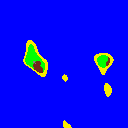
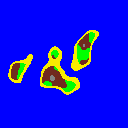
Rewrite Net

diff --git a/GameServer.h b/GameServer.h
@@ -55,7 +55,76 @@ namespace Game {
 		}
 
 		static void ConnectHandler(Uint32 ID) {
+			//===============================================================//		
+			{
+				EngineCore::TileMap* tilemap = NULL;
 
+				tilemap = &game().background->tilemap;
+				for (Uint32 i = 0; i < 128; ++i) {
+					EngineCore::Packet line1 = EngineCore::Packet(64);
+					line1.code = game().NET_MAP_GENERATE_BACKGROUND;
+					for (Uint32 j = 0; j < 64; ++j)
+						line1.write<Uint8>((Uint8)tilemap->map[i][j]);
+
+					EngineCore::Packet line2 = EngineCore::Packet(64);
+					line2.code = game().NET_MAP_GENERATE_BACKGROUND;
+					for (Uint32 j = 64; j < 128; ++j)
+						line2.write<Uint8>((Uint8)tilemap->map[i][j]);
+
+					if (EngineCore::Server::warrantySend(ID, line1)) {
+						if (!EngineCore::Server::warrantySend(ID, line2)) {
+							Log::error() << "Couldn't send data of map";
+							return;
+						}
+					} else {
+						Log::error() << "Couldn't send data of map";
+						return;
+					}
+
+					EngineCore::Packet okPacket = EngineCore::Packet(0);
+					for (Uint32 k = 1; k < EngineCore::Server::getClients().size(); ++k)
+						if (k != ID) {
+							EngineCore::Server::Send(k, okPacket);
+
+							Uint32 ready = SDLNet_SocketReady(EngineCore::Server::self.server_socket);
+							if (ready > 0)
+								EngineCore::Net::recieved(EngineCore::Server::self.server_socket, 128);
+						}
+				}
+
+				tilemap = &game().foreground->tilemap;
+				for (Uint32 i = 0; i < 128; ++i) {
+					EngineCore::Packet line1 = EngineCore::Packet(64);
+					line1.code = game().NET_MAP_GENERATE_FOREGROUND;
+					for (Uint32 j = 0; j < 64; ++j)
+						line1.write<Uint8>((Uint8)tilemap->map[i][j]);
+
+					EngineCore::Packet line2 = EngineCore::Packet(64);
+					line2.code = game().NET_MAP_GENERATE_FOREGROUND;
+					for (Uint32 j = 64; j < 128; ++j)
+						line2.write<Uint8>((Uint8)tilemap->map[i][j]);
+
+					if (EngineCore::Server::warrantySend(ID, line1)) {
+						if (!EngineCore::Server::warrantySend(ID, line2)) {
+							Log::error() << "Couldn't send data of map";
+							return;
+						}
+					} else {
+						Log::error() << "Couldn't send data of map";
+						return;
+					}
+
+					EngineCore::Packet okPacket = EngineCore::Packet(0);
+					for (Uint32 k = 1; k < EngineCore::Server::getClients().size(); ++k)
+						if (k != ID) {
+							EngineCore::Server::Send(k, okPacket);
+						
+							Uint32 ready = SDLNet_SocketReady(EngineCore::Server::self.server_socket);
+							if (ready > 0)
+								EngineCore::Net::recieved(EngineCore::Server::self.server_socket, 128);
+						}
+				}
+			}
 			//===============================================================//
 			{
 				Uint16 index = ID - 1;
@@ -90,30 +159,6 @@ namespace Game {
 				}
 			}
 			//===============================================================//
-			EngineCore::TileMap* tilemap = &game().background->tilemap;
-			for (Uint32 i = 0; i < 128; ++i) {
-				EngineCore::Packet line1 = EngineCore::Packet(64);
-				line1.code = game().NET_MAP_GENERATE;
-				for (Uint32 j = 0; j < 64; ++j)
-					line1.write<Uint8>((Uint8)tilemap->map[i][j]);
-
-				EngineCore::Packet line2 = EngineCore::Packet(64);
-				line2.code = game().NET_MAP_GENERATE;
-				for (Uint32 j = 64; j < 128; ++j)
-					line2.write<Uint8>((Uint8)tilemap->map[i][j]);
-
-				if (EngineCore::Server::warrantySend(ID, line1)) {
-					if (!EngineCore::Server::warrantySend(ID, line2)) {
-						Log::error() << "Couldn't send data of map";
-						return;
-					}
-				} else {
-					Log::error() << "Couldn't send data of map";
-					return;
-				}
-
-				Log::info() << "Send " << (i + 1) << " of 128";
-			}
 		}
 
 		static void DisconnectHandler(Uint32 ID) {

diff --git a/GameClient.h b/GameClient.h
@@ -38,9 +38,27 @@ namespace Game {
 
 				game().players.back()->sprite.position = {x, y};
 
-				if (game().players.size() == 1)
+				if (game().players.size() == 1) {
 					game().chat->send("Welcome to the Server");
-				else
+					
+					SDL_Surface* surface = SDL_CreateRGBSurface(NULL, 128, 128, 32, 0, 0, 0, 0);
+					Uint32* pixels = (Uint32*)surface->pixels;
+
+					for (Uint32 x = 0; x < 128; ++x)
+						for (Uint32 y = 0; y < 128; ++y) {
+							Uint32 color = 0;
+
+							if (game().background->tilemap.map[x][y] == 5) color = SDL_MapRGBA(surface->format, 0, 0, 255, 255);
+							if (game().background->tilemap.map[x][y] == 4) color = SDL_MapRGBA(surface->format, 132, 132, 132, 255);
+							if (game().background->tilemap.map[x][y] == 3) color = SDL_MapRGBA(surface->format, 248, 235, 0, 255);
+							if (game().background->tilemap.map[x][y] == 2) color = SDL_MapRGBA(surface->format, 0, 255, 0, 255);
+							if (game().background->tilemap.map[x][y] == 1) color = SDL_MapRGBA(surface->format, 113, 42, 30, 255);
+
+							pixels[x + (128 * y)] = color;
+						}
+
+					SDL_SaveBMP(surface, "./asset/map.png");
+				} else
 					game().chat->send("Player with ID:" + std::to_string(ID) + " join to the Server");
 			} else if (packet->code == game().NET_PLAYER_MOVE) {
 				Uint16 ID = packet->c_data - 1;
@@ -66,43 +84,46 @@ namespace Game {
 						game().chat->send("Player with ID: " + std::to_string(ID) + " left the server");
 					}
 				}
-			} else if (packet->code == game().NET_MAP_GENERATE) {
-				Log::info() << "MAP GENERATE";
+			} else if (packet->code == game().NET_MAP_GENERATE_BACKGROUND) {
+				static Uint32 x = 0, y = 0;
+				
+				if (x == 128 && y == 128)
+					x = y = 0;
 
-				EngineCore::Packet mypacket = *packet;
+				Uint32 tx = x + 64;
 
-				Uint32 x = 0, y = 0;
-				bool is = true;
+				if (tx > 128) {
+					x = 0;
+					y += 1;
+					tx = 64;
+				}
 
-				do {
-					Uint32 tx = x + 64;
+				for (; x < tx; ++x)
+					game().background->tilemap.map[y][x] = packet->read<Uint8>();
 
-					if (tx >= 128) {
-						x = 0;
-						y += 1;
-						tx = 64;
-					}
+				EngineCore::Packet okPacket = EngineCore::Packet(0);
+				okPacket.code = game().NET_MAP_GENERATE_BACKGROUND;
+				EngineCore::Client::Send(okPacket);
+			} else if (packet->code == game().NET_MAP_GENERATE_FOREGROUND) {
+				static Uint32 x = 0, y = 0;
 
-					for (; x < tx; ++x) {
-						Uint8 tile = mypacket.read<Uint8>();
-						if (tile != 5)
-							game().background->tilemap.map[x][y] = tile;
-					}
+				if (x == 128 && y == 128)
+					x = y = 0;
 
-					if (y != 127) {
-						is = SDLNet_CheckSockets(EngineCore::Client::self.socket_set, 500) > 0;
+				Uint32 tx = x + 64;
 
-						UDPpacket* package = EngineCore::Net::recieved(EngineCore::Client::self.client_socket, 128);
-						if (!package)
-							return;
+				if (tx > 128) {
+					x = 0;
+					y += 1;
+					tx = 64;
+				}
 
-						mypacket = EngineCore::Packet(package->data, package->len);
+				for (; x < tx; ++x)
+					game().foreground->tilemap.map[y][x] = packet->read<Uint8>();
 
-						EngineCore::Packet okPacket = EngineCore::Packet(0);
-						EngineCore::Client::Send(okPacket);
-					} else
-						return;
-				} while (is);
+				EngineCore::Packet okPacket = EngineCore::Packet(0);
+				okPacket.code = game().NET_MAP_GENERATE_FOREGROUND;
+				EngineCore::Client::Send(okPacket);
 			}
 		}
 	};

diff --git a/MapGenerate.h b/MapGenerate.h
@@ -88,5 +88,25 @@ namespace Game {
 				} else if (high > 0.04) game().background->tilemap.map[x][y] = 3;
 			}
 		}
+
+		//===========================================================================//
+
+		SDL_Surface* surface = SDL_CreateRGBSurface(NULL, 128, 128, 32, 0, 0, 0, 0);
+		Uint32* pixels = (Uint32*)surface->pixels;
+
+		for (Uint32 x = 0; x < 128; ++x)
+			for (Uint32 y = 0; y < 128; ++y) {
+				Uint32 color = 0;
+
+				if (game().background->tilemap.map[x][y] == 5) color = SDL_MapRGBA(surface->format, 0, 0, 255, 255);
+				if (game().background->tilemap.map[x][y] == 4) color = SDL_MapRGBA(surface->format, 132, 132, 132, 255);
+				if (game().background->tilemap.map[x][y] == 3) color = SDL_MapRGBA(surface->format, 248, 235, 0, 255);
+				if (game().background->tilemap.map[x][y] == 2) color = SDL_MapRGBA(surface->format, 0, 255, 0, 255);
+				if (game().background->tilemap.map[x][y] == 1) color = SDL_MapRGBA(surface->format, 113, 42, 30, 255);
+
+				pixels[x + (128 * y)] = color;
+			}
+
+		SDL_SaveBMP(surface, "./asset/map.png");
 	}
 }

diff --git a/Server.cpp b/Server.cpp
@@ -158,22 +158,27 @@ namespace EngineCore {
 
 	bool Server::warrantySend(Uint16 clientID, Packet packet) {
 		if (!self.run) {
-			Log::warning() << "Failed to send data because the server was not started";
+			Log::warning() << "warrantySend: Failed to send data because the server was not started";
 			return false;
 		}
 
+		Uint32 packetID = packet.packetID;
+
 		Uint32 num_ready;
-		//for (Uint32 i = 0; i < 10; ++i) {
+		for (Uint32 i = 0; i < 10; ++i) {
+			self.clients[clientID].lastPacketID = packetID;
+			packet.packetID = packetID;
+			
 			Server::Send(clientID, packet);
 			num_ready = SDLNet_CheckSockets(self.socket_set, 500);
-			//if (num_ready > 0)
-			//	break;
-		//}
+			if (num_ready > 0)
+				break;
+		}
 
 		if (num_ready > 0) {
 			UDPpacket* package = Net::recieved(self.server_socket, 128);
 			if (!package) {
-				Log::error() << "Couldn't recieved data from client";
+				Log::error() << "warrantySend: Couldn't recieved data from client";
 				return false;
 			}
 

diff --git a/Server.h b/Server.h
@@ -13,15 +13,16 @@ namespace EngineCore {
 	private:
 		bool run = false;
 
-		UDPsocket server_socket;
 		SDLNet_SocketSet socket_set;
 
 		std::vector<Client> clients = { Client() };
 
 		static Uint16 getID();
 
-		static Server self;
 	public:
+		UDPsocket server_socket;
+		static Server self;
+
 		static void (*ConnectHandler) (Uint32 id);
 		static void (*DisconnectHandler) (Uint32 id);
 		static void (*RequestHandler) (Uint32 id, Packet* packet);

diff --git a/Client.cpp b/Client.cpp
@@ -151,8 +151,13 @@ namespace EngineCore {
 	}
 
 	bool Client::warrantySend(Packet packet) {
+		Uint32 packetID = packet.packetID;
+		
 		Uint32 num_ready;
 		for (Uint32 i = 0; i < 10; ++i) {
+			self.lastPacketID = packetID;
+			packet.packetID = packetID;
+
 			Client::Send(packet);
 			num_ready = SDLNet_CheckSockets(self.socket_set, 100);
 			if (num_ready > 0)

diff --git a/Settings.h b/Settings.h
@@ -5,8 +5,9 @@ namespace Game {
 	struct Game {
 		const Uint16 NET_PLAYER_MOVE = 1,
 					 NET_PLAYER_CREATE = 2,
-				     NET_PLAYER_DESTROY = 3,
-					 NET_MAP_GENERATE = 4;
+					 NET_PLAYER_DESTROY = 3,
+					 NET_MAP_GENERATE_BACKGROUND = 4,
+					 NET_MAP_GENERATE_FOREGROUND = 5;
 
 		EngineCore::Chat* chat = new EngineCore::Chat();
 		Uint32 seed = 0;

diff --git a/Net.cpp b/Net.cpp
@@ -2,7 +2,7 @@
 #pragma comment(lib, "Ws2_32.lib")
 
 namespace EngineCore {
-	bool Net::isServer = false;
+	bool Net::isServer = true;
 
 	bool Net::init() {
 		Log::info() << "SDL net init";
